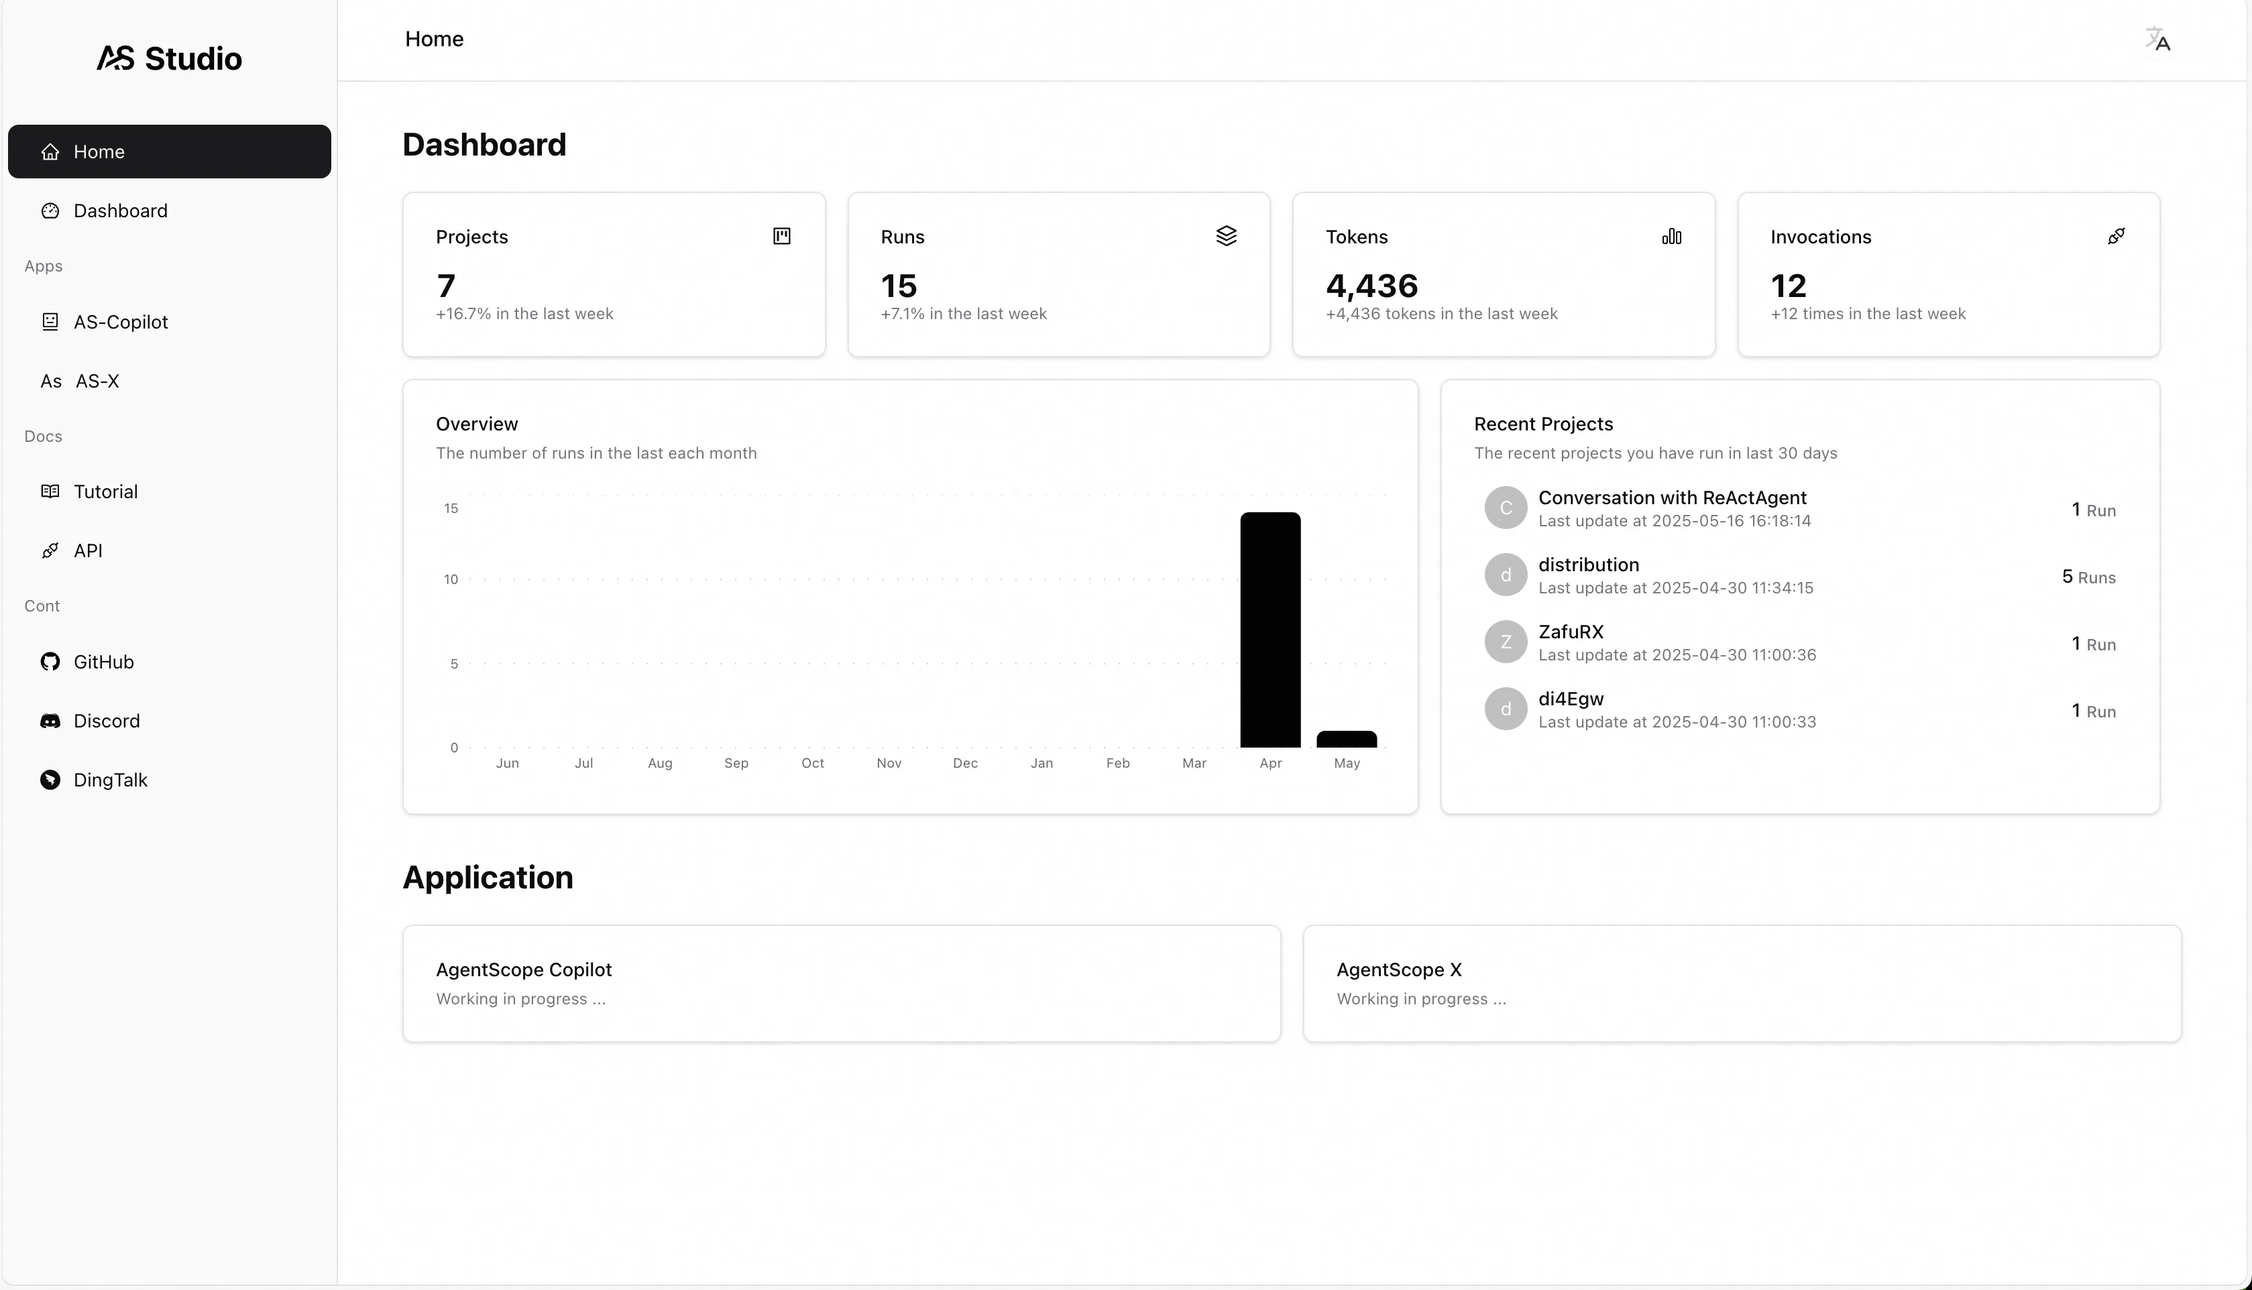
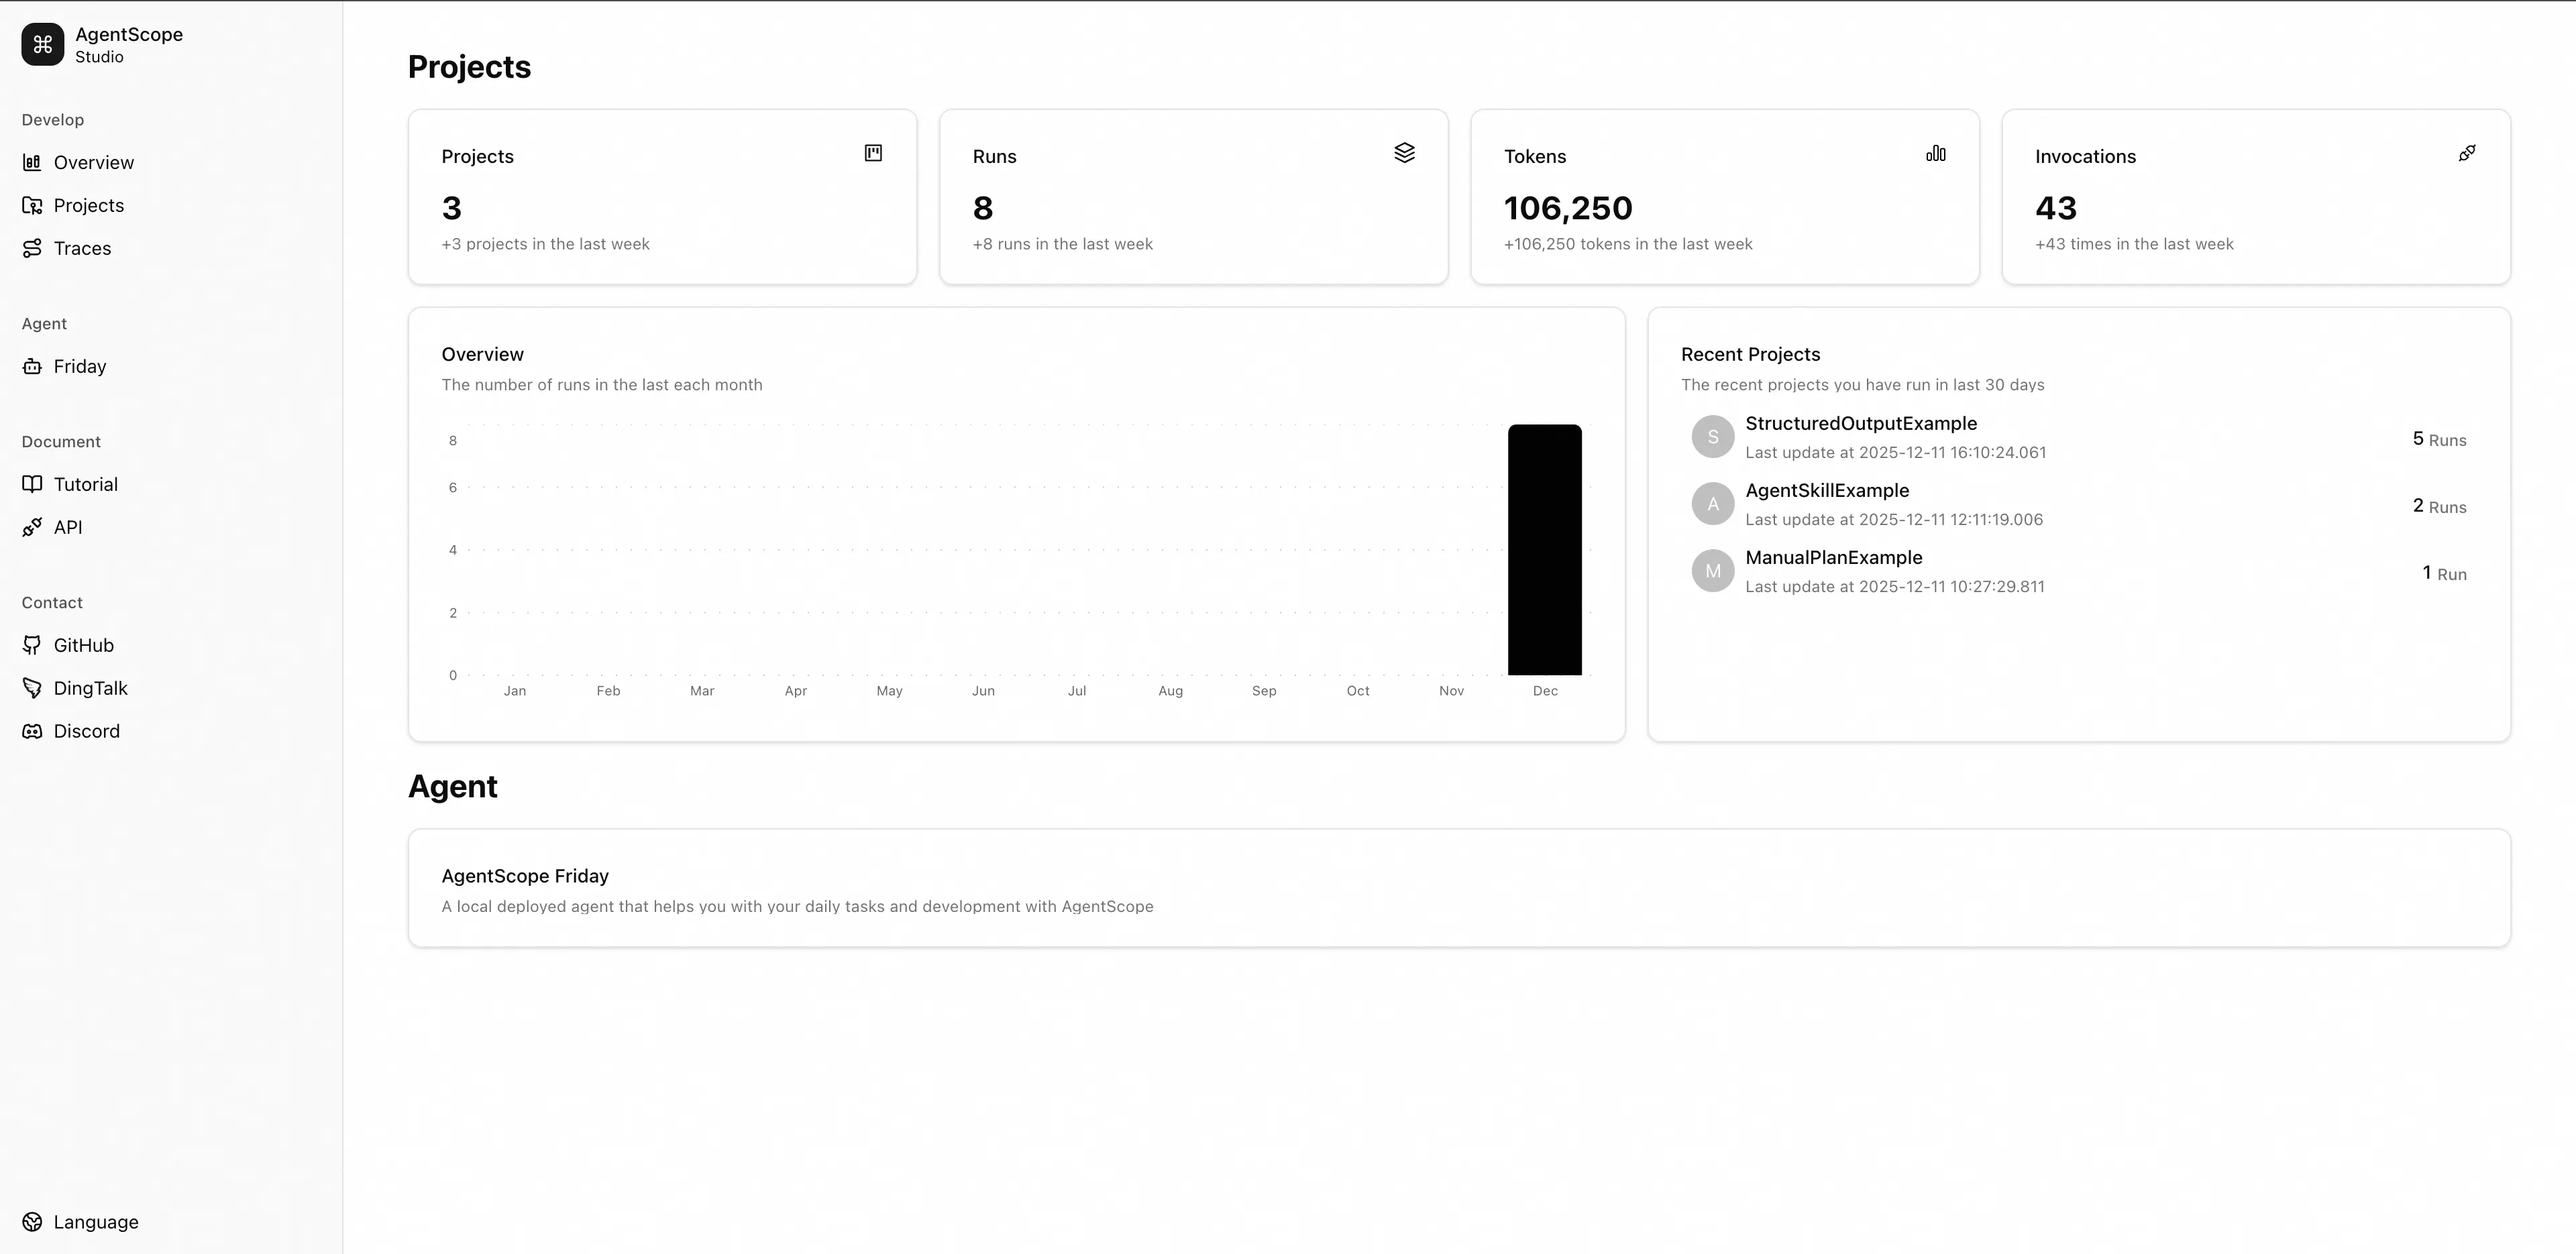
docs(studio): update to latest studio Gifs

diff --git a/docs/tutorial/zh_CN/src/task_tracing.py b/docs/tutorial/zh_CN/src/task_tracing.py
@@ -21,7 +21,7 @@ AgentScope 实现了基于 OpenTelemetry 的追踪来监控和调试
 AgentScope Studio
 ---------------------------------------
 
-.. figure:: ../../_static/images/studio_tracing.png
+.. figure:: ../../_static/images/studio_tracing.webp
     :width: 100%
     :alt: AgentScope Studio 追踪页面
     :class: bordered-image

diff --git a/docs/tutorial/en/src/task_tracing.py b/docs/tutorial/en/src/task_tracing.py
@@ -21,7 +21,7 @@ Setting Up
 AgentScope Studio
 ---------------------------------------
 
-.. figure:: ../../_static/images/studio_tracing.png
+.. figure:: ../../_static/images/studio_tracing.webp
     :width: 100%
     :alt: AgentScope Studio tracing Page
     :class: bordered-image

diff --git a/README.md b/README.md
@@ -324,22 +324,22 @@ as_studio
 
 <p align="center">
     <img
-        src="./assets/images/home.gif"
+        src="https://img.alicdn.com/imgextra/i1/O1CN01PG2MdF1Zc44A1QM6N_!!6000000003214-1-tps-1971-1080.gif"
         width="49%"
         alt="home"
     />
     <img
-        src="./assets/images/projects.gif"
-        width="49%"
-        alt="projects"
-    />
-    <img
-        src="./assets/images/runtime.gif"
+        src="https://img.alicdn.com/imgextra/i2/O1CN01pGHedL1L4ibmyPeiq_!!6000000001246-1-tps-1971-1080.gif"
         width="49%"
         alt="runtime"
     />
     <img
-        src="./assets/images/friday.gif"
+        src="https://img.alicdn.com/imgextra/i1/O1CN01HfFhy928SSJAcWQ8c_!!6000000007931-1-tps-1971-1080.gif"
+        width="49%"
+        alt="traces"
+    />
+    <img
+        src="https://img.alicdn.com/imgextra/i1/O1CN01vovov821Arms9tEJ1_!!6000000006945-1-tps-1971-1080.gif"
         width="49%"
         alt="friday"
     />

diff --git a/README_zh.md b/README_zh.md
@@ -325,22 +325,22 @@ as_studio
 
 <p align="center">
     <img
-        src="./assets/images/home.gif"
+        src="https://img.alicdn.com/imgextra/i1/O1CN01PG2MdF1Zc44A1QM6N_!!6000000003214-1-tps-1971-1080.gif"
         width="49%"
         alt="home"
     />
     <img
-        src="./assets/images/projects.gif"
-        width="49%"
-        alt="projects"
-    />
-    <img
-        src="./assets/images/runtime.gif"
+        src="https://img.alicdn.com/imgextra/i2/O1CN01pGHedL1L4ibmyPeiq_!!6000000001246-1-tps-1971-1080.gif"
         width="49%"
         alt="runtime"
     />
     <img
-        src="./assets/images/friday.gif"
+        src="https://img.alicdn.com/imgextra/i1/O1CN01HfFhy928SSJAcWQ8c_!!6000000007931-1-tps-1971-1080.gif"
+        width="49%"
+        alt="traces"
+    />
+    <img
+        src="https://img.alicdn.com/imgextra/i1/O1CN01vovov821Arms9tEJ1_!!6000000006945-1-tps-1971-1080.gif"
         width="49%"
         alt="friday"
     />
